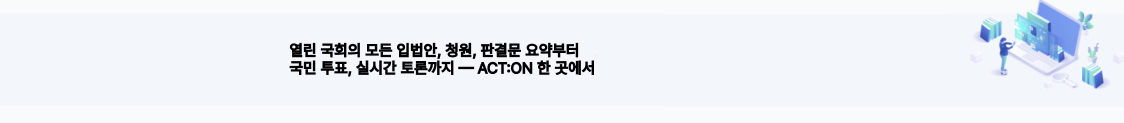
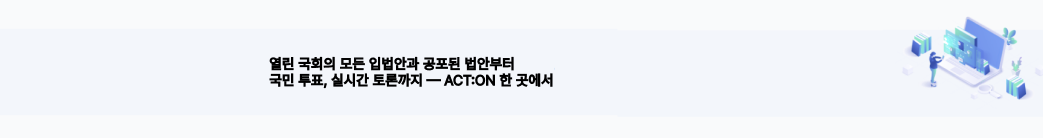
홈화면 디테일

Changed region(s): [[0.2454, 0.3415, 0.5523, 0.6341], [0.8591, 0.0, 1.0, 0.7317]]

diff --git a/frontend/src/pages/home.js b/frontend/src/pages/home.js
@@ -89,73 +89,77 @@ function Home() {
         </div>
       </header>
 
-      <main className="home-center">
-        <img src="/main-logo.png" alt="ACT:ON 중앙 로고" className="home-logo-center" />
+      <div className="home-content">
+        <div className="search-section">
+          <img src="/main-logo.png" alt="ACT:ON 중앙 로고" className="home-logo-center" />
 
-        <div className="search-bar">
-          <select
-            value={searchMode}
-            onChange={(e) => setSearchMode(e.target.value)}
-          >
-            <option value="발의">발의</option>
-            <option value="공포">공포</option>
-          </select>
+          <div className="search-bar">
+            <select
+              value={searchMode}
+              onChange={(e) => setSearchMode(e.target.value)}
+            >
+              <option value="발의">발의</option>
+              <option value="공포">공포</option>
+            </select>
 
-          <input
-            type="text"
-            placeholder="발의된 또는 공포된 법안을 검색해 주세요"
-            value={searchQuery}
-            onChange={(e) => setSearchQuery(e.target.value)}
-          />
+            <input
+              type="text"
+              placeholder="발의된 또는 공포된 법안을 검색해 주세요"
+              value={searchQuery}
+              onChange={(e) => setSearchQuery(e.target.value)}
+            />
 
-          <button onClick={handleSearch}>
-            <span role="img" aria-label="search">🔍</span>
-          </button>
+            <button onClick={handleSearch}>
+              <span role="img" aria-label="search">🔍</span>
+            </button>
+          </div>
         </div>
 
-        <img src="/banner.png" alt="배너 이미지" className="banner-image" />
-      </main>
+        <div className="banner-section">
+          <img src="/home-design.png" alt="배너 이미지" className="banner-image" />
+        </div>
 
-      <section className="law-section">
-        <h2>법안 목록</h2>
-        <p>공포된 법안과 발의된 법안을 구분해서 확인해요</p>
+        <section className="law-section">
+          <h2>법안 목록</h2>
+          <p>공포된 법안과 발의된 법안을 구분해서 확인해요</p>
 
-        {isLoading ? (
-          <div className="loading">데이터를 불러오는 중...</div>
-        ) : isError ? (
-          <div className="error">
-            {error || "법안 데이터를 불러오는데 실패했습니다. 잠시 후 다시 시도해주세요."}
-          </div>
-        ) : (
-          <div className="law-boxes">
-            {["공포", "발의"].map((mode) => (
-              <div className="law-box" key={mode}>
-                <div className="law-box-header">
-                  <h3>{mode}된 법안</h3>
-                </div>
+          {isLoading ? (
+            <div className="loading">데이터를 불러오는 중...</div>
+          ) : isError ? (
+            <div className="error">
+              {error || "법안 데이터를 불러오는데 실패했습니다. 잠시 후 다시 시도해주세요."}
+            </div>
+          ) : (
+            <div className="law-boxes">
+              {["공포", "발의"].map((mode) => (
+                <div className="law-box" key={mode}>
+                  <div className="law-box-header">
+                    <h3>{mode}된 법안</h3>
+                  </div>
 
-                <div className="law-scroll-box">
-                  {laws[mode].slice(0, 8).map((law, idx) => (
-                    <div key={idx} className="law-item">
-                      <div 
-                        onClick={() => navigate(`/detail/${law.bill_id}`)}
-                        style={{ cursor: 'pointer' }}
-                      >
-                        {law.title}
+                  <div className="law-scroll-box">
+                    {laws[mode].slice(0, 8).map((law, idx) => (
+                      <div key={idx} className="law-item">
+                        <div 
+                          onClick={() => navigate(`/detail/${law.bill_id}`)}
+                          style={{ cursor: 'pointer' }}
+                        >
+                          {law.title}
+                        </div>
+                        <div className="law-date">{law.date}</div>
                       </div>
-                      <div className="law-date">{law.date}</div>
-                    </div>
-                  ))}
-                </div>
+                    ))}
+                  </div>
 
-                <div className="law-more-button">
-                  <button onClick={() => navigate(`/list?query=&mode=${mode}&sort=latest&page=1`)}>＋</button>
+                  <div className="law-more-button">
+                    <button onClick={() => navigate(`/list?query=&mode=${mode}&sort=latest&page=1`)}>＋</button>
+                  </div>
                 </div>
-              </div>
-            ))}
-          </div>
-        )}
-      </section>
+              ))}
+            </div>
+          )}
+        </section>
+      </div>
 
       {showPopup && <MyPagePopup onClose={() => setShowPopup(false)} />}
     </div>

diff --git a/frontend/src/pages/home.css b/frontend/src/pages/home.css
@@ -60,12 +60,21 @@
   color: #1963ac;
 }
 
-.home-center {
+.home-content {
   display: flex;
   flex-direction: column;
   align-items: center;
+  width: 100%;
+  min-width: 900px;
+}
+
+.search-section {
+  display: flex;
+  flex-direction: column;
+  align-items: center;
+  width: 100%;
   padding-top: 100px;
-  padding-bottom: 160px;
+  min-width: 900px;
 }
 
 .home-logo-center {
@@ -81,25 +90,26 @@
   overflow: hidden;
   background: white;
   padding: 4px 12px;
-  width: 600px;
-  max-width: 90%;
+  width: 900px;
+  max-width: none;
   box-shadow: 0 4px 8px rgba(0, 0, 0, 0.1);
-  margin-bottom: 200px;
 }
 
-.search-bar select,
+.search-bar select {
+  border: none;
+  outline: none;
+  font-size: 16px;
+  padding: 8px;
+  background: transparent;
+  width: 80px;
+  cursor: pointer;
+}
+
 .search-bar input {
   border: none;
   outline: none;
   font-size: 16px;
   padding: 8px;
-}
-
-.search-bar select {
-  background: none;
-}
-
-.search-bar input {
   flex: 1;
 }
 
@@ -110,10 +120,36 @@
   cursor: pointer;
 }
 
+@media screen and (max-width: 1000px) {
+  .home-content,
+  .search-section,
+  .search-bar {
+    min-width: 90%;
+    width: 90%;
+  }
+}
+
+@media screen and (max-width: 768px) {
+  .search-bar {
+    width: 90%;
+    min-width: 280px;
+  }
+  
+  .search-bar select {
+    width: 70px;
+  }
+}
+
+.banner-section {
+  width: 100%;
+  margin-top: 200px;  /* 검색창과 배너 사이의 간격을 200px로 수정 */
+  margin-bottom: 100px;
+}
+
 .banner-image {
   width: 100%;
   max-width: 1430px;
-  margin: 0 auto 100px auto;
+  margin: 0 auto;
   display: block;
 }
 
